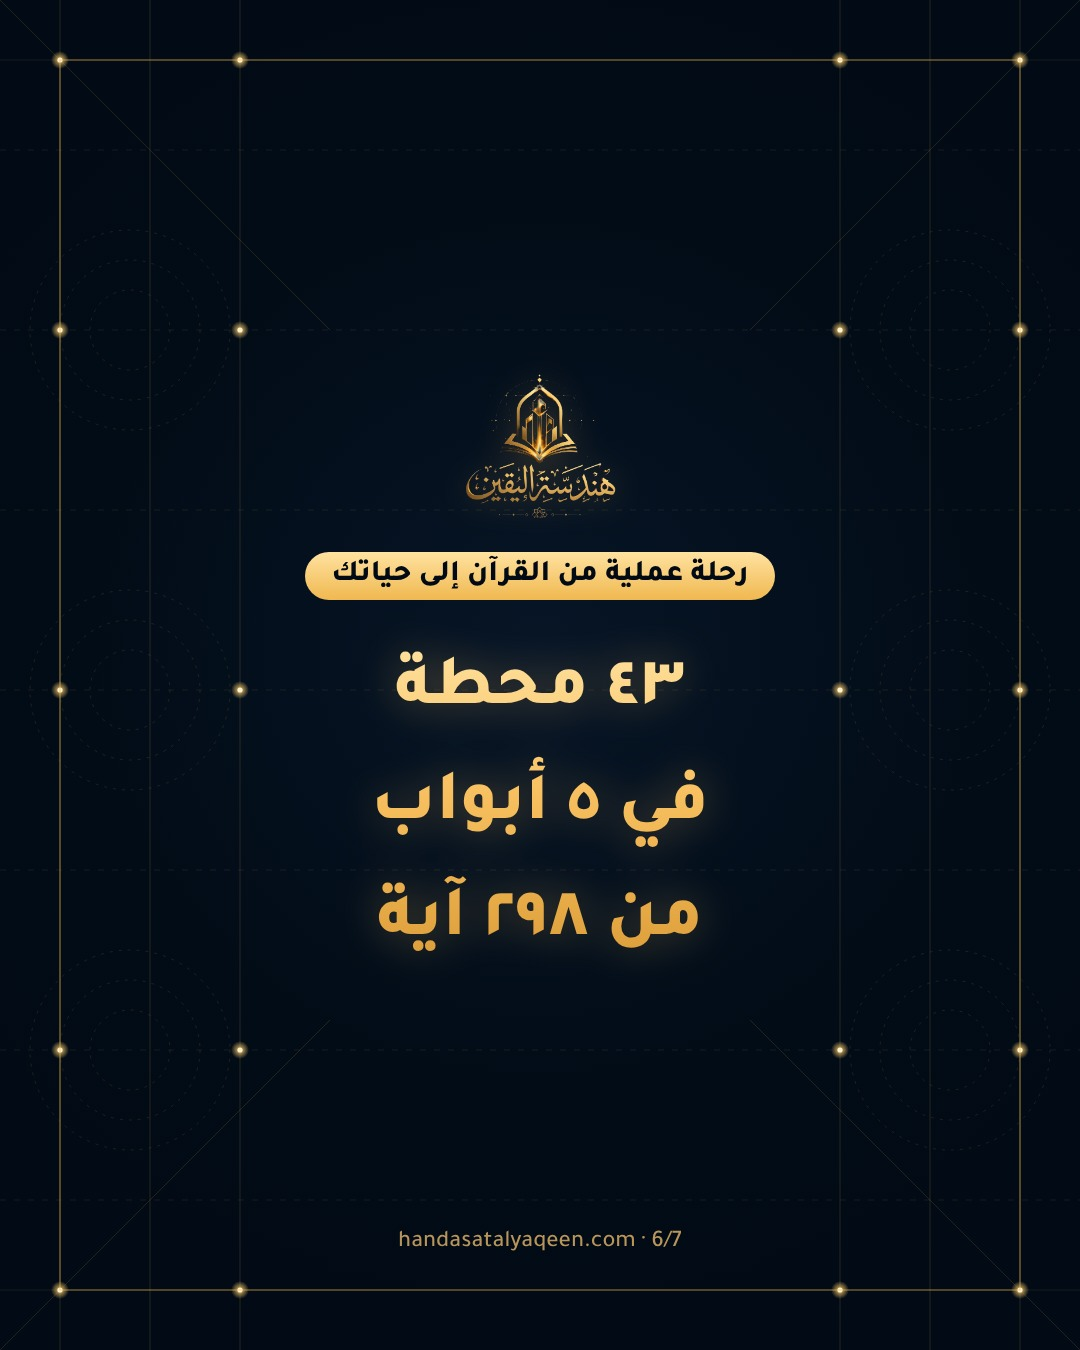
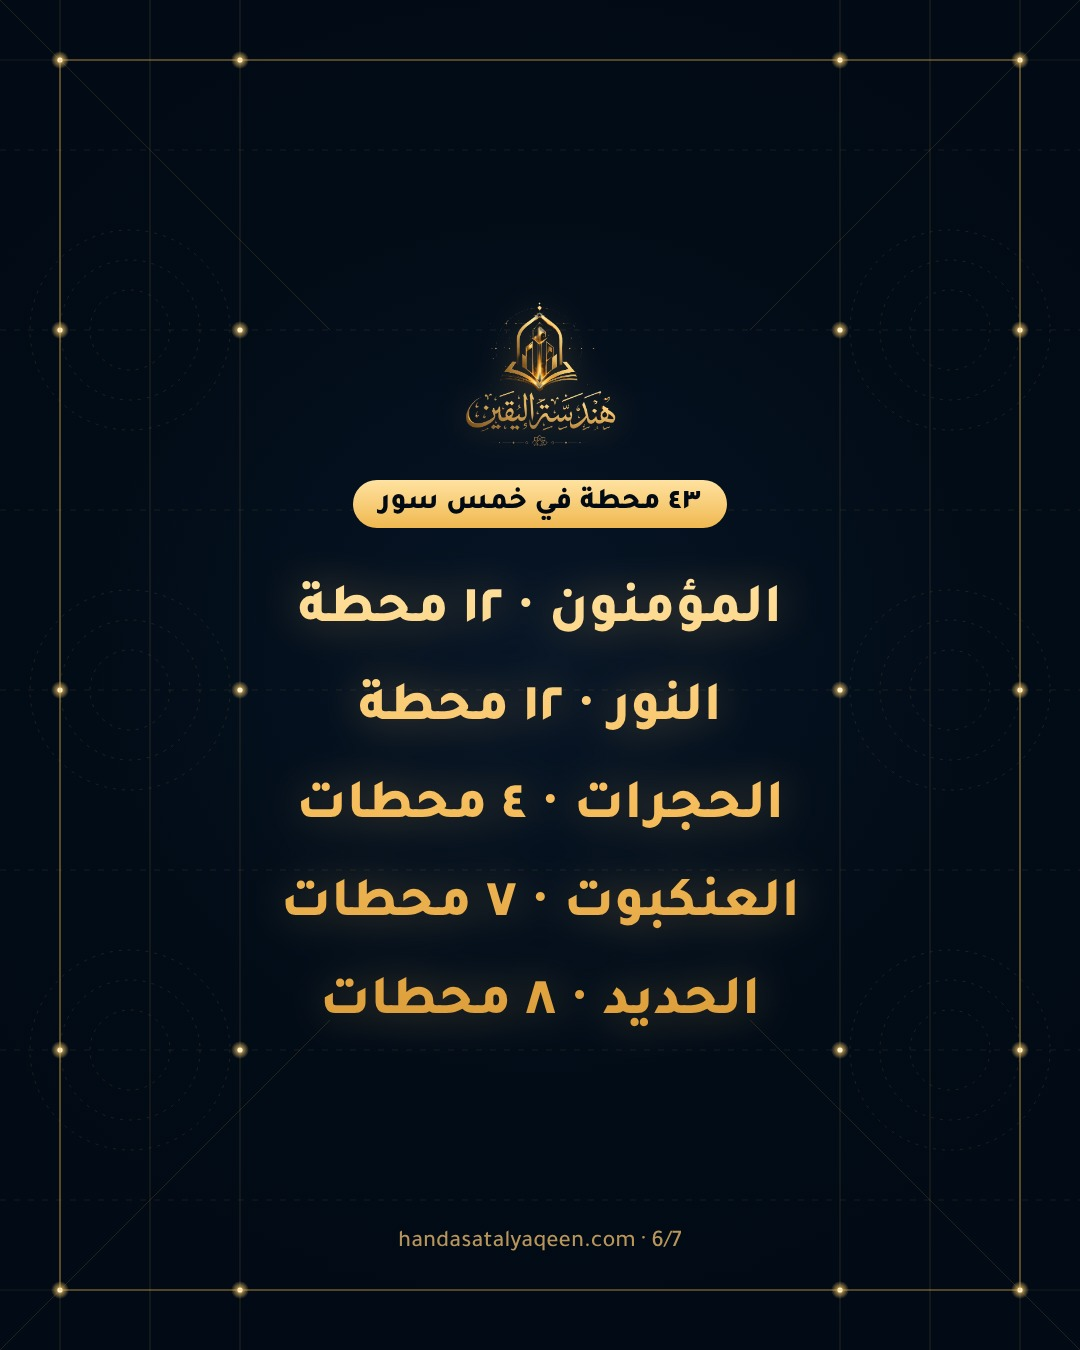
Enjaz ad + TikTok video: list five surahs with station counts
Claude-Session: https://claude.ai/code/session_011Yr5CDjq71g6fVhDNRGv4e

Changed region(s): [[0.2444, 0.2178, 0.7333, 0.7778]]

diff --git a/social/enjaz-ad/video-tiktok.html b/social/enjaz-ad/video-tiktok.html
@@ -1,0 +1,87 @@
+<!doctype html><html lang="ar" dir="rtl"><head><meta charset="utf-8"><style>
+@font-face{font-family:T;src:url(file:///home/claude/car/node_modules/@fontsource/tajawal/files/tajawal-arabic-800-normal.woff2);font-weight:800}
+@font-face{font-family:T;src:url(file:///home/claude/car/node_modules/@fontsource/tajawal/files/tajawal-arabic-700-normal.woff2);font-weight:700}
+@font-face{font-family:T;src:url(file:///home/claude/car/node_modules/@fontsource/tajawal/files/tajawal-arabic-500-normal.woff2);font-weight:500}
+@font-face{font-family:T;src:url(file:///home/claude/car/node_modules/@fontsource/tajawal/files/tajawal-latin-800-normal.woff2);font-weight:800}
+@font-face{font-family:T;src:url(file:///home/claude/car/node_modules/@fontsource/tajawal/files/tajawal-latin-700-normal.woff2);font-weight:700}
+*{margin:0;padding:0;box-sizing:border-box}
+html,body{width:1080px;height:1920px;overflow:hidden;background:#020a15}
+body{font-family:T;color:#f4efe6;position:relative;
+ background:radial-gradient(ellipse 80% 45% at 50% 42%,#0e2541 0%,#020a15 70%)}
+.grid{position:absolute;inset:0;background-image:linear-gradient(rgba(240,184,80,.05) 1px,transparent 1px),linear-gradient(90deg,rgba(240,184,80,.05) 1px,transparent 1px);background-size:90px 90px}
+.dot{position:absolute;width:8px;height:8px;border-radius:50%;background:#ffd98a;box-shadow:0 0 14px 4px rgba(240,184,80,.55)}
+.logo{position:absolute;top:150px;left:50%;transform:translateX(-50%);width:200px}
+.sc{position:absolute;inset:0;display:flex;flex-direction:column;align-items:center;justify-content:center;text-align:center;padding:0 80px}
+.e{opacity:0}
+.chip{display:inline-block;font-weight:800;font-size:40px;color:#1a1204;background:linear-gradient(180deg,#ffe2a0,#f0b850);padding:10px 34px;border-radius:99px;margin-bottom:46px}
+.big{font-weight:800;font-size:84px;line-height:1.55}
+.g{background:linear-gradient(180deg,#ffe2a0,#f0b850);-webkit-background-clip:text;background-clip:text;color:transparent}
+.mid{font-weight:800;font-size:72px;line-height:1.6}
+.list div{font-weight:800;font-size:76px;line-height:1.75}
+.nums{display:flex;gap:30px;margin-top:10px}
+.num{border:2px solid rgba(240,184,80,.6);border-radius:30px;padding:24px 34px}
+.num b{display:block;font-size:110px;line-height:1.1}
+.num span{font-size:42px;font-weight:700;color:#e7dfd0}
+.cover{width:440px;border-radius:12px;box-shadow:0 30px 80px rgba(0,0,0,.7),0 0 90px rgba(240,184,80,.25);margin:30px 0 40px}
+.btn{font-weight:800;font-size:54px;color:#1a1204;background:linear-gradient(180deg,#ffe2a0,#f0b850);padding:24px 60px;border-radius:99px;box-shadow:0 0 60px rgba(240,184,80,.45)}
+.site{margin-top:34px;font-size:44px;font-weight:700}
+.site b{color:#ffd98a;direction:ltr;unicode-bidi:embed}
+.eg{margin-top:26px;font-size:34px;font-weight:700;color:#cfd8e2;line-height:1.6}
+.srs{display:flex;flex-direction:column;gap:18px;width:760px}
+.sr{display:flex;justify-content:space-between;align-items:center;border:2px solid rgba(240,184,80,.45);border-radius:26px;padding:18px 40px;background:rgba(240,184,80,.05)}
+.sr b{font-size:64px;font-weight:800;line-height:1.3}
+.sr span{font-size:44px;font-weight:700;color:#e7dfd0}
+</style></head><body>
+<div class="grid"></div>
+<div id="dots"></div>
+<img class="logo" src="file:///home/claude/handasatalyaqeen/social/brand/logo.png">
+
+<div class="sc"><div class="e big" data-a="0.3" data-b="4.6">حفظنا القرآن<br>في صدورنا…</div>
+ <div class="e big g" data-a="1.9" data-b="4.6" style="margin-top:20px">فهل نقلناه<br>إلى حياتنا؟</div></div>
+
+<div class="sc"><div class="e chip" data-a="5.0" data-b="9.4">الفجوة</div>
+ <div class="e mid" data-a="5.3" data-b="9.4">نتلوه ونحفظه ونُعظّمه…</div>
+ <div class="e mid g" data-a="6.8" data-b="9.4" style="margin-top:16px">لكن كم آيةً<br>غيّرت قراراً اتخذته اليوم؟</div></div>
+
+<div class="sc"><div class="e chip" data-a="9.8" data-b="14.6">الكنز</div>
+ <div class="e mid" data-a="10.1" data-b="14.6">ليس فيما تتعلّمه…</div>
+ <div class="e mid g" data-a="11.5" data-b="14.6" style="margin-top:16px">بل في الأثر الذي يتحقق لك<br>حين تطبّق ما أنزله الله<br>على رسوله ﷺ</div></div>
+
+<div class="sc"><div class="e chip" data-a="15.0" data-b="18.8">لهذا صُمّم «هندسة اليقين»</div>
+ <div class="e big" data-a="15.3" data-b="18.8">ليحوّل الآيات</div>
+ <div class="e big g" data-a="16.4" data-b="18.8">إلى منهج عملٍ<br>في حياتك اليومية</div></div>
+
+<div class="sc list"><div class="e chip" data-a="19.2" data-b="23.6" style="font-size:40px">في كل محطة… تطبيق</div>
+ <div class="e" data-a="19.5" data-b="23.6">في زواجك</div>
+ <div class="e" data-a="20.1" data-b="23.6">في بيتك</div>
+ <div class="e" data-a="20.7" data-b="23.6">في عملك</div>
+ <div class="e" data-a="21.3" data-b="23.6">في مالك</div>
+ <div class="e g" data-a="21.9" data-b="23.6">في تعاملك مع الناس</div></div>
+
+<div class="sc"><div class="e chip" data-a="24.0" data-b="27.8">٤٣ محطة في خمس سور</div>
+ <div class="srs">
+ <div class="e sr" data-a="24.3" data-b="27.8"><b class="g">المؤمنون</b><span>١٢ محطة</span></div>
+ <div class="e sr" data-a="24.75" data-b="27.8"><b class="g">النور</b><span>١٢ محطة</span></div>
+ <div class="e sr" data-a="25.2" data-b="27.8"><b class="g">الحجرات</b><span>٤ محطات</span></div>
+ <div class="e sr" data-a="25.65" data-b="27.8"><b class="g">العنكبوت</b><span>٧ محطات</span></div>
+ <div class="e sr" data-a="26.1" data-b="27.8"><b class="g">الحديد</b><span>٨ محطات</span></div>
+ </div></div>
+
+<div class="sc" style="padding-top:120px"><div class="e mid" data-a="28.0" data-b="99">الكنز في التطبيق…</div>
+ <img class="e cover" data-a="28.3" data-b="99" src="file:///home/claude/handasatalyaqeen/social/brand/book-cover.jpg">
+ <div class="e btn" data-a="29.0" data-b="99">الأجوبة كلها في الكتاب 📖</div>
+ <div class="e site" data-a="29.5" data-b="99">اكتب في المتصفح ← <b>handasatalyaqeen.com</b></div>
+ <div class="e eg" data-a="30.2" data-b="99">داخل مصر: الورقية تصلك لبيتك · الدفع عند الاستلام<br>والإلكترونية هدية معها 🎁</div></div>
+
+<script>
+const D=document.getElementById('dots'),pts=[];
+for(let i=0;i<22;i++){const d=document.createElement('div');d.className='dot';const p={x:Math.random()*1080,y:Math.random()*1920,s:.4+Math.random()*1.2,ph:Math.random()*6.28,el:d};D.appendChild(d);pts.push(p)}
+const els=[...document.querySelectorAll('.e')];
+function ease(x){x=Math.max(0,Math.min(1,x));return x*x*(3-2*x)}
+window.render=function(t){
+ els.forEach(e=>{const a=+e.dataset.a,b=+e.dataset.b;let o=ease((t-a)/0.5)*(1-ease((t-b+0.4)/0.4));
+  const y=(1-ease((t-a)/0.6))*28;e.style.opacity=o;e.style.transform=`translateY(${y}px)`});
+ pts.forEach(p=>{p.el.style.left=p.x+'px';p.el.style.top=((p.y-t*14*p.s)%1920+1920)%1920+'px';p.el.style.opacity=.35+.45*Math.sin(t*1.3+p.ph)});
+}
+render(0);
+</script></body></html>
